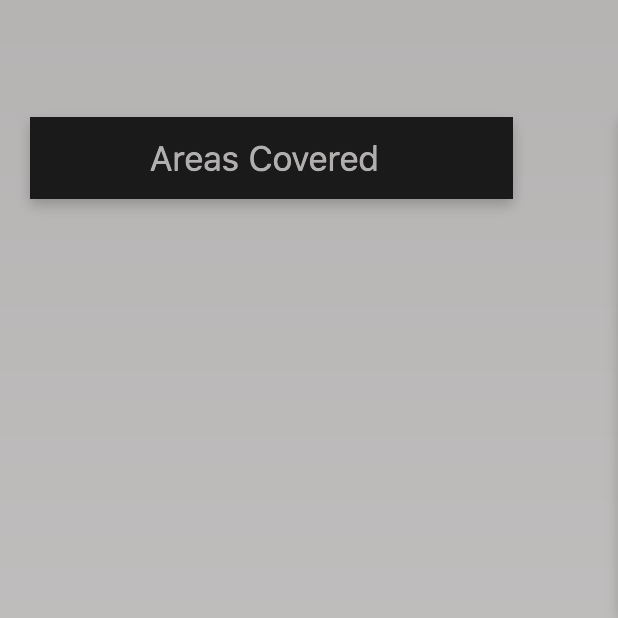
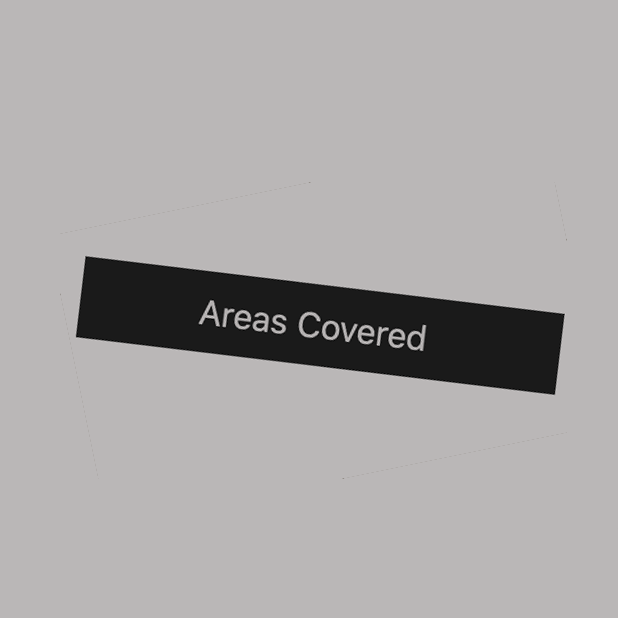
front end start page img

Changed region(s): [[0.123, 0.3997, 0.9223, 0.6456], [0.0307, 0.1845, 0.8301, 0.3382]]

diff --git a/css/index.css b/css/index.css
@@ -428,34 +428,11 @@ button:focus {
 button h5{
   margin: 16.5em 1.9em auto 2em;
 }
-.red{
-  background-color: rgb(163, 103, 103);
-  z-index: 4;
-}
-.red h2{
-  margin: 10em auto auto 1.5em;
-  width: 8em;
-  color: var(--main-bg-color);
-  font-size: 28px;
-  font-weight: 400;
-  font-family: 'ITC Stone Informal Std Medium', 'caslon', 'miller', 'Cambria', 'Cochin', Georgia, Times, 'Times New Roman', serif; 
-  font-family: 'lato','montserrat', 'Univers LT Std', 'Helvetica Neue', 'arial', sans-serif;
-}
-.yellow{
-  background-color: #BE985B;
-  z-index: 4;
-}
-.yellow h2{
-  margin: 10em auto auto 1.5em;
-  width: 8em;
-  color: var(--main-bg-color);
-  font-size: 28px;
-  font-weight: 400;
-  font-family: 'ITC Stone Informal Std Medium', 'caslon', 'miller', 'Cambria', 'Cochin', Georgia, Times, 'Times New Roman', serif; 
-  font-family: 'lato','montserrat', 'Univers LT Std', 'Helvetica Neue', 'arial', sans-serif;
-}
 .text-mobile{
   display: none;
+}
+img .tilt{
+  transform: rotate(40deg);
 }
 
 @media only screen and (max-width: 400px){ 

diff --git a/index.html b/index.html
@@ -92,7 +92,7 @@
       
       <article class="card">
         <a  href="https://lenmarbra.github.io/frontend-index/">
-          <img srcset="images/startpage/frontend.png" alt="Frontend">
+          <img class="tilt" srcset="images/startpage/frontend.png" alt="Frontend">
         </a>
         <a class="overlay" href="https://lenmarbra.github.io/frontend-index/">
           <h5>Frontend Development</h5>
